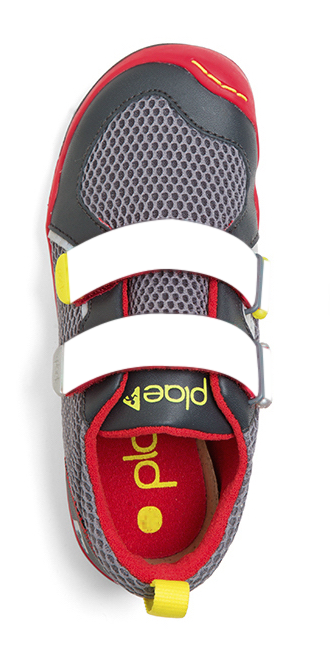
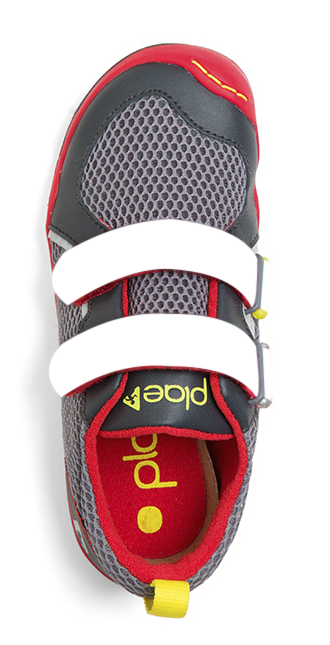
add top view no tab images. update shoe json with new image sources

Changed region(s): [[0.1515, 0.5271, 0.2121, 0.6202], [0.1515, 0.3721, 0.2121, 0.4961]]

diff --git a/js/plaeChefController.js b/js/plaeChefController.js
@@ -207,16 +207,28 @@
           tpcontext.fillStyle="#FFFFFF";
           tpcontext.fillRect(75,0,topViewCanvas.width-150,150);
           var right_image = new Image();
-          right_image.onload = function(){
-              tpcontext.drawImage(right_image, 520, 0, 240, 469);
-          };
-          right_image.src = $scope.shoeSelected[0]["mainViewTopRight"];
-
           var left_image = new Image();
-          left_image.onload = function(){
-              tpcontext.drawImage(left_image, 300, 0, 240, 469);
-          };
-          left_image.src = $scope.shoeSelected[0]["mainViewTopLeft"];
+          if (this.isTabSelected()) {
+              right_image.onload = function () {
+                  tpcontext.drawImage(right_image, 520, 0, 240, 469);
+              };
+              right_image.src = $scope.shoeSelected[0]["mainViewTopRightNoTab"];
+
+              left_image.onload = function () {
+                  tpcontext.drawImage(left_image, 300, 0, 240, 469);
+              };
+              left_image.src = $scope.shoeSelected[0]["mainViewTopLeftNoTab"];
+          }else{
+              right_image.onload = function () {
+                  tpcontext.drawImage(right_image, 520, 0, 240, 469);
+              };
+              right_image.src = $scope.shoeSelected[0]["mainViewTopRight"];
+
+              left_image.onload = function () {
+                  tpcontext.drawImage(left_image, 300, 0, 240, 469);
+              };
+              left_image.src = $scope.shoeSelected[0]["mainViewTopLeft"];
+          }
 
           console.log("drawTopViewImage set!");
       };// end drawTopViewImage
